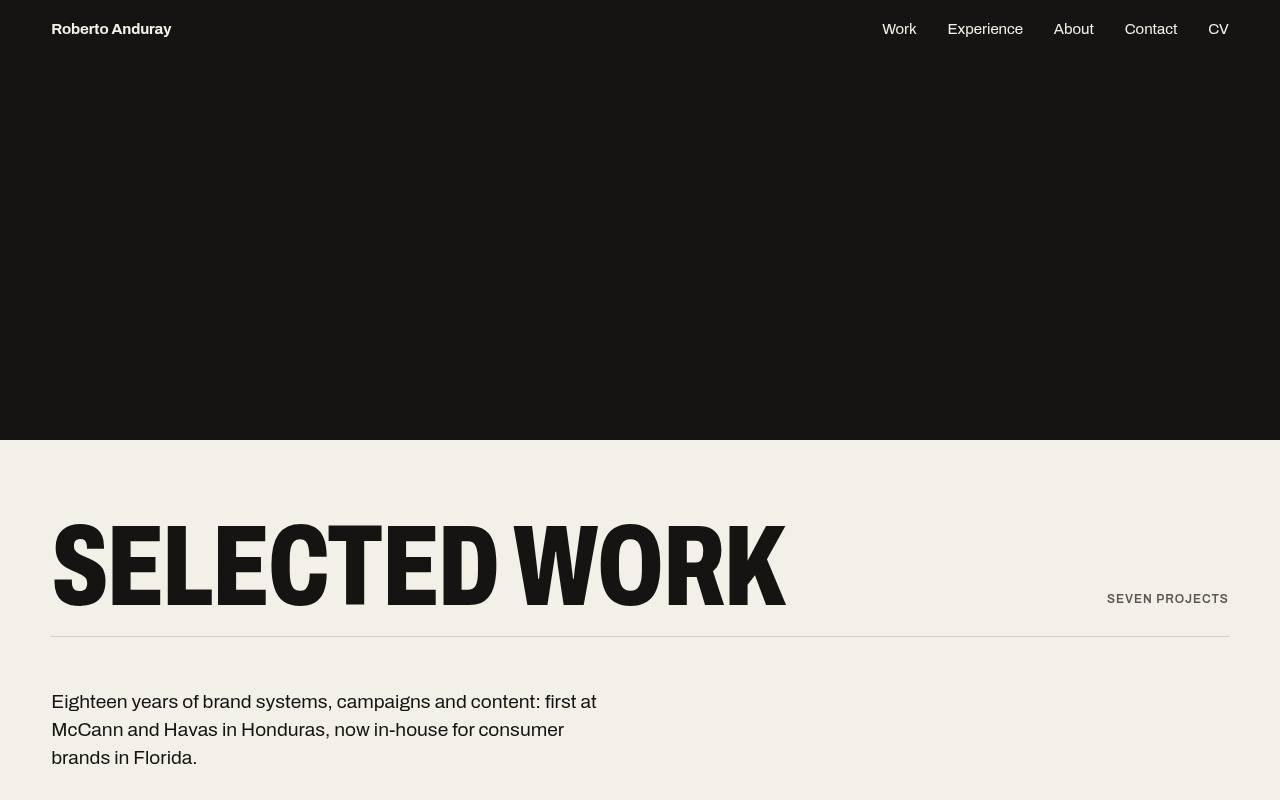
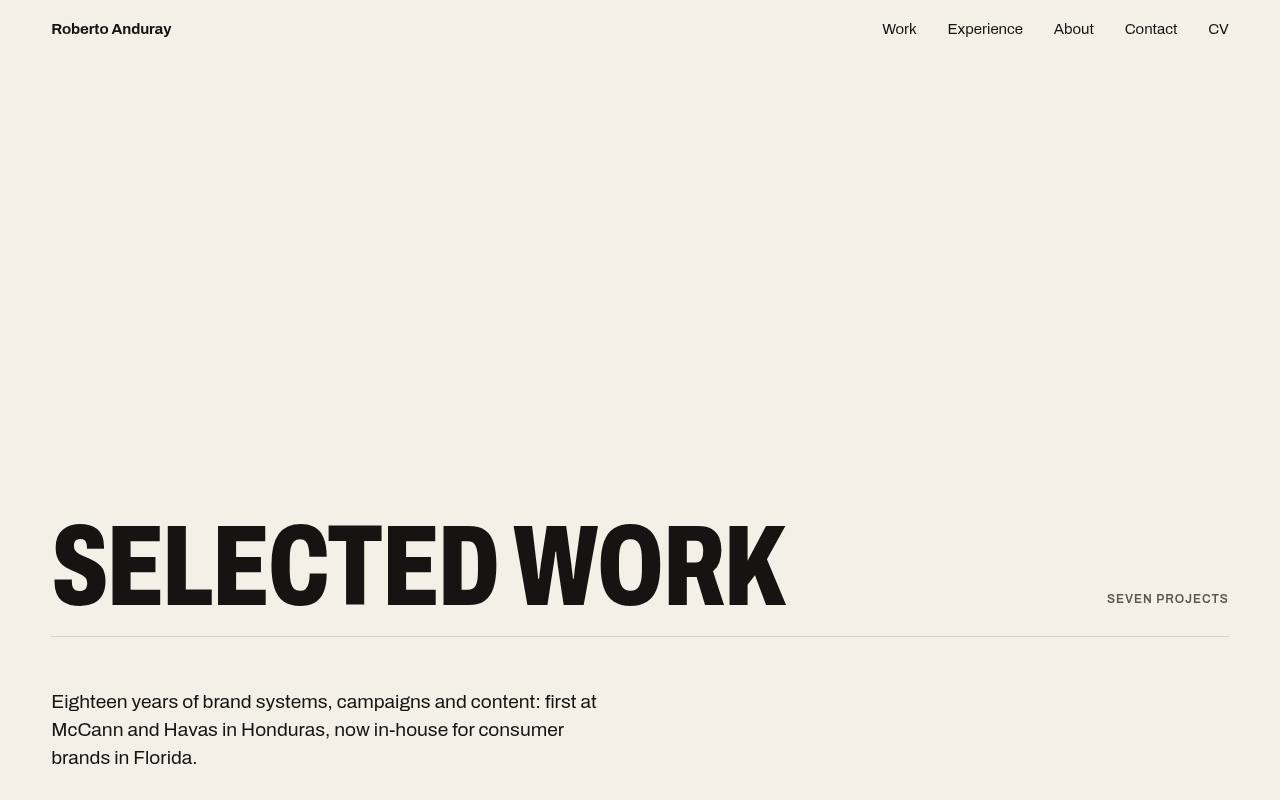
fix(ab): paper handoff, multiply dieline, cleaner 07 number
Per Muse round 1: no ink fade (dive fades to paper so the zoomed frame never shows), header dark only over contact, multiply on sheet 07 dieline, 07 number filled with h2box-detail. Refresh _shots with r2 stills.

diff --git a/v/ab/styles.css b/v/ab/styles.css
@@ -32,11 +32,12 @@ svg.hero { position: absolute; inset: var(--header-h) 0 0 0; width: 100%; height
 .col { animation: var(--dir) var(--dur) linear infinite; }
 @keyframes up { to { transform: translateY(-50%); } }
 @keyframes down { from { transform: translateY(-50%); } to { transform: translateY(0); } }
+/* the end of the dive fades to paper, so the hero hands over straight to the paper sheets */
+.next { position: absolute; inset: 0; background: var(--paper); opacity: 0; pointer-events: none; }
 .stage .meta { position: absolute; left: var(--margin); right: var(--margin); bottom: clamp(20px, 4vh, 44px); display: flex; justify-content: space-between; align-items: end; gap: 24px; }
 .kicker { color: var(--accent); margin: 0 0 12px; }
 .meta .lede { font-size: var(--size-lede); line-height: 1.4; max-width: 34ch; margin: 0; }
 .hint { color: var(--muted); margin: 0; }
-.next { position: absolute; inset: 0; background: var(--ink); opacity: 0; pointer-events: none; }
 
 /* ---- work: seven proof sheets straight on the paper ---- */
 .work { padding: clamp(40px, 6vw, 96px) 0 var(--section-gap); }
@@ -137,6 +138,7 @@ svg.hero { position: absolute; inset: var(--header-h) 0 0 0; width: 100%; height
 /* 07: H2Ocean box, the dieline straight on the paper */
 .m-proof { grid-template-columns: repeat(12, minmax(0, 1fr)); align-items: end; }
 .m-proof .dieline { grid-column: 1 / span 7; grid-row: span 2; }
+.m-proof .dieline img, .m-proof .dieline .sep { mix-blend-mode: multiply; }  /* the file's white prints as paper, the linework stays */
 .m-proof figure:nth-child(2) { grid-column: 8 / span 3; }
 .m-proof figure:nth-child(3) { grid-column: 11 / span 2; }
 
@@ -268,9 +270,9 @@ figure.sep-go .sep .s-c { transition-delay: calc(var(--d, 0ms) + 2 * var(--stagg
 @media (prefers-reduced-motion: reduce) {
   .stage { height: auto; }
   .sticky { position: relative; }
+  .next { display: none; }
   .col { animation: none; }
   .more-grid li[data-in], .big[data-in] { opacity: 1; transform: none; transition: none; }
-  .next { display: none; }
 }
 
 /* ---- shared: skip link, header, phone menu ---- */

diff --git a/v/ab/main.js b/v/ab/main.js
@@ -58,7 +58,7 @@
   fontsReady.then(() => { build(); intro(); onScroll(); });
   addEventListener('resize', () => { const before = mode; build(); if (mode !== before) { showOutline(1); onScroll(); } });
 
-  // scroll: dive through the left stroke of the O, then hand over to the work, on ink
+  // scroll: dive through the left stroke of the O, then the hero scrolls up into the paper sheets
   const zmax = tok('--zoom-max', 70);
   const wins = [...document.querySelectorAll('.win')].map(s => ({ s, img: s.querySelector('.win-img') }));
   let ticking = false;
@@ -113,15 +113,14 @@
   els.forEach(e => io.observe(e));
 })();
 
-/* header colour: ink strip only over the hero fade-out and Contact; it stays paper over the proof sheets */
+/* header colour: ink strip only over Contact; paper everywhere else */
 (() => {
-  const bar = document.querySelector('.top'), stage = document.querySelector('.stage');
-  if (!bar || !stage) return;
+  const bar = document.querySelector('.top');
+  if (!bar) return;
   const dark = [...document.querySelectorAll('.contact')];
   const set = () => {
-    const y = bar.offsetHeight / 2, s = stage.getBoundingClientRect();
-    const fade = s.bottom > y && s.bottom - innerHeight * 0.5 < bar.offsetHeight;
-    bar.classList.toggle('on-ink', fade || dark.some(d => { const r = d.getBoundingClientRect(); return r.top <= y && r.bottom > y; }));
+    const y = bar.offsetHeight / 2;
+    bar.classList.toggle('on-ink', dark.some(d => { const r = d.getBoundingClientRect(); return r.top <= y && r.bottom > y; }));
   };
   addEventListener('scroll', set, { passive: true }); addEventListener('resize', set); set();
 })();

diff --git a/v/ab/index.html b/v/ab/index.html
@@ -256,7 +256,7 @@
       <header class="proof-head">
         <svg class="win proof-no" viewBox="0 0 600 400" aria-hidden="true" focusable="false">
           <defs><mask id="m-h2box" maskUnits="userSpaceOnUse" x="0" y="0" width="600" height="400"><rect width="600" height="400" fill="#000"/><text class="win-t" x="300" y="372" text-anchor="middle" font-size="460" textLength="560" lengthAdjust="spacingAndGlyphs" fill="#fff">07</text></mask></defs>
-          <g mask="url(#m-h2box)"><image class="win-img" href="../../assets/work/h2box-front.webp" x="0" y="-120" width="600" height="640" preserveAspectRatio="xMidYMid slice"/></g>
+          <g mask="url(#m-h2box)"><image class="win-img" href="../../assets/work/h2box-detail.webp" x="0" y="-120" width="600" height="640" preserveAspectRatio="xMidYMid slice"/></g>
           <text class="win-t win-o" x="300" y="372" text-anchor="middle" font-size="460" textLength="560" lengthAdjust="spacingAndGlyphs">07</text>
         </svg>
         <div class="proof-titles">
